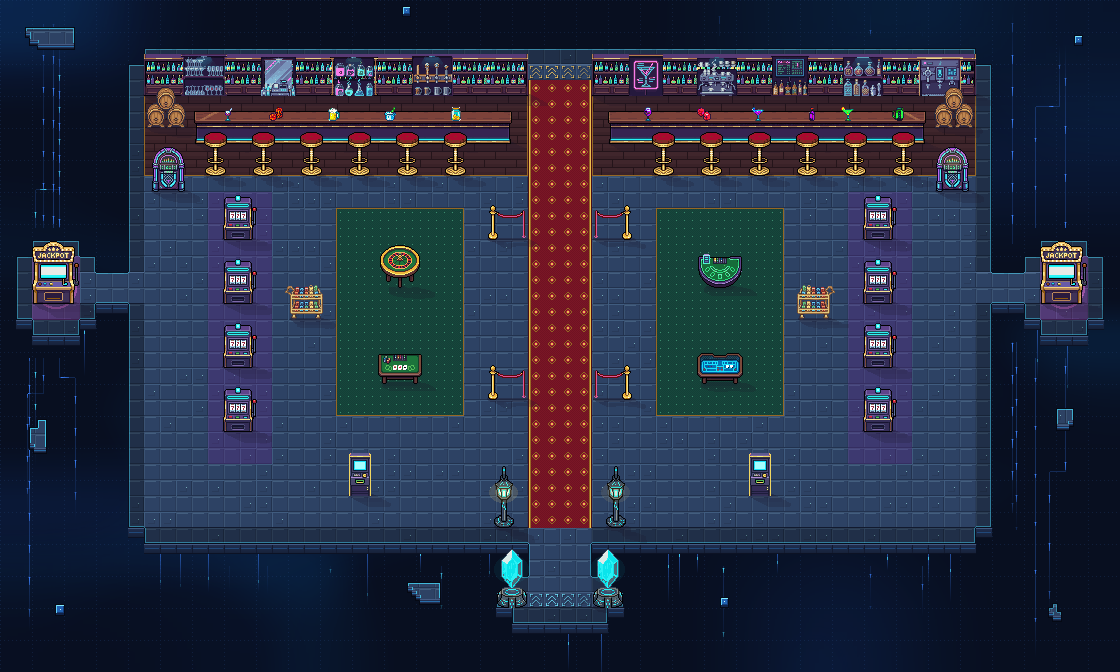
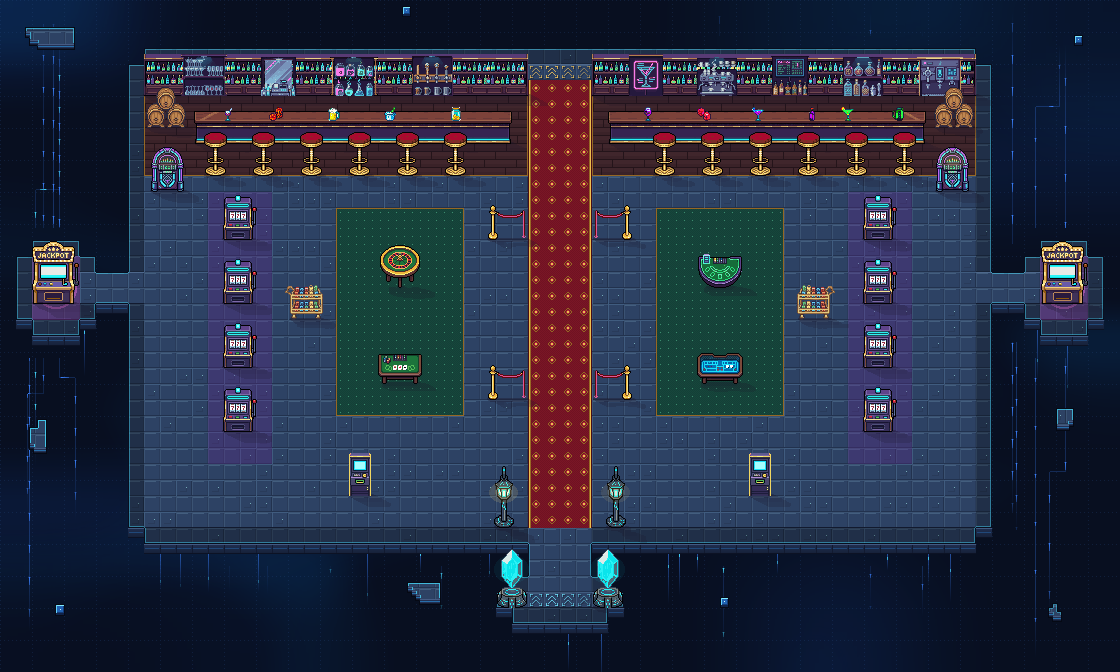
Karte 22: Paare pixelgenau gespiegelt (Pruefung, gering)
Claude-Session: https://claude.ai/code/session_01SaoYHKhnro4LFcPJqjaPsq

diff --git a/tools/karte22_objekte.py b/tools/karte22_objekte.py
@@ -6,7 +6,7 @@
 Alle Objekte neu mit dem PixelLab Objekt-Creator (k22_casino, k22_gross) im Netz-Stil von Karte 16.
 Paare stehen exakt spiegelsymmetrisch zur Mittelachse des Casinos (x = 416 px; gespiegelt: x' = 832 - x).
 """
-import json, os, sys
+import json, math, os, sys
 sys.path.insert(0, os.path.dirname(os.path.abspath(__file__)))
 import numpy as np
 from PIL import Image, ImageFilter
@@ -138,7 +138,8 @@ def main():
         a = np.array(sp.getchannel('A')) >= 128
         zu = int(np.nonzero(a.any(axis=1))[0].max())
         xs = np.nonzero(a.any(axis=0))[0]
-        x = int(round(mitte - (xs.min() + xs.max() + 1) / 2.0))
+        v_ = mitte - (xs.min() + xs.max() + 1) / 2.0                    # Paare pixelgenau gespiegelt (x.5 links ab-, rechts aufrunden)
+        x = int(math.floor(v_)) if mitte < MITTE else int(math.ceil(v_))
         y = (reihe + 1) * T - 1 - zu
         h_, w_ = a.shape
         fuss = a.copy(); fuss[:max(0, zu + 1 - 6)] = False
